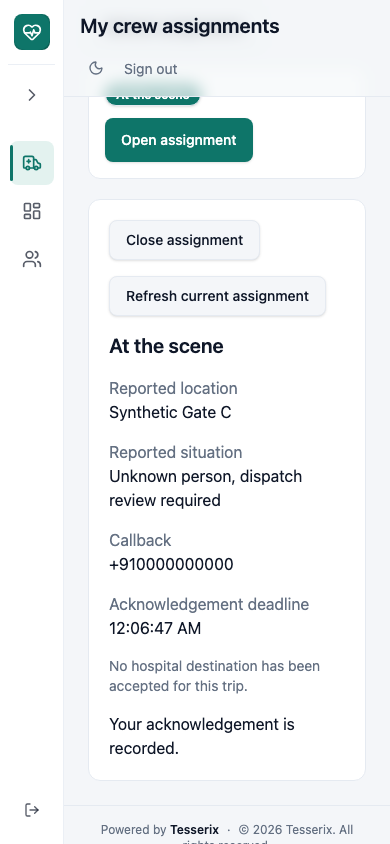
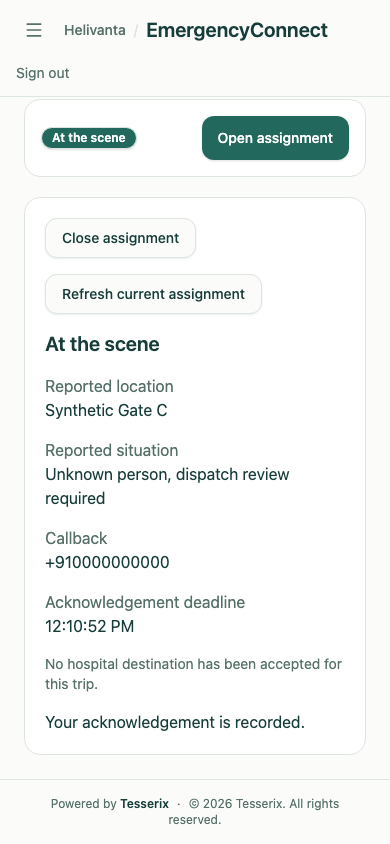
test(emergency): fleet phone pane spans the screen with the rail gone (#1299)
The emergency fleet browser test pinned the phone content pane at 326px,
the 390px screen minus the 64px rail. With no rail below md the pane is the
full width; the test now asserts what it meant: the pane spans the viewport
and nothing scrolls sideways. Mobile evidence screenshots regenerated.

diff --git a/e2e/emergency-intake/fleet.spec.ts b/e2e/emergency-intake/fleet.spec.ts
@@ -107,12 +107,14 @@ test("supervisor verifies fleet and duty, records failure and clears it against 
   expect(await page.evaluate(() => document.documentElement.scrollWidth <= window.innerWidth)).toBe(
     true,
   );
-  expect(
-    await page.locator("main").evaluate((main) => {
-      const pane = main.parentElement!;
-      return { width: pane.clientWidth, content: pane.scrollWidth };
-    }),
-  ).toEqual({ width: 326, content: 326 });
+  // The content pane spans the phone (#1299: no rail column below md) and
+  // nothing inside it scrolls sideways.
+  const pane = await page.locator("main").evaluate((main) => {
+    const el = main.parentElement!;
+    return { width: el.clientWidth, content: el.scrollWidth, viewport: window.innerWidth };
+  });
+  expect(pane.content).toBe(pane.width);
+  expect(pane.width).toBe(pane.viewport);
   await page.screenshot({
     path: "../docs/architecture/evidence/ambulanceconnect-2026-10-18/fleet-mobile.png",
     fullPage: false,
